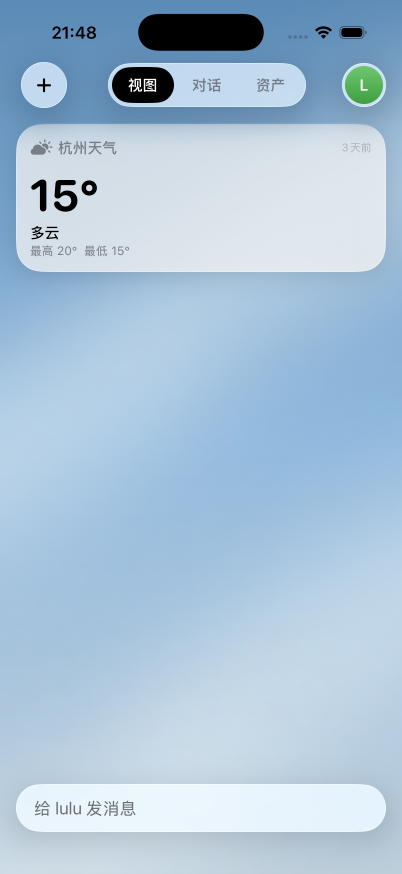
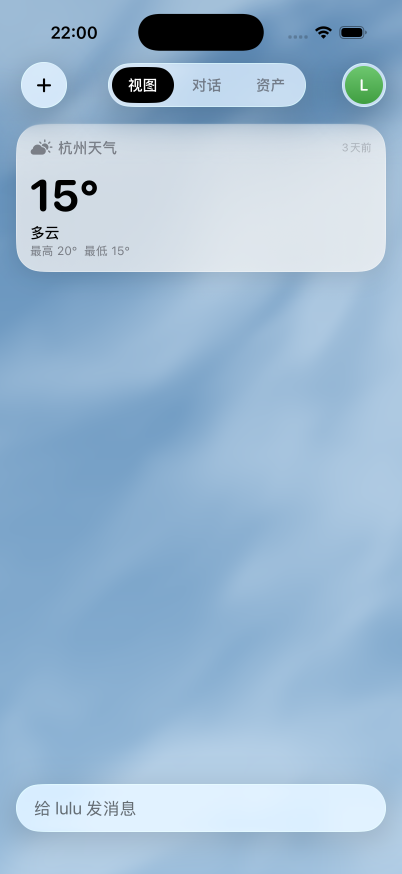
fix(ios): render soft irregular cloud shadows

diff --git a/client/ios/PiStack/Components/Wallpaper.swift b/client/ios/PiStack/Components/Wallpaper.swift
@@ -110,39 +110,22 @@ private struct CloudSky: View {
     let cover: Double
     @Environment(\.colorScheme) private var scheme
 
-    private func color(_ hex: UInt32) -> Color {
-        Color(red: Double(hex >> 16 & 255) / 255, green: Double(hex >> 8 & 255) / 255, blue: Double(hex & 255) / 255)
+    private var moodValue: Float {
+        switch mood {
+        case .day: 0
+        case .dusk: 1
+        case .rain: 2
+        case .night: 3
+        }
     }
 
     var body: some View {
         GeometryReader { proxy in
-            let night = mood == .night
-            let rain = mood == .rain
-            let base: [UInt32] = night ? [0x172941, 0x28496C, 0x446887] :
-                rain ? [0x71899F, 0x9CB2C5, 0xC2CFDA] :
-                mood == .dusk ? [0x526D8A, 0xA798AF, 0xC2B6BF] : [0x5D8DB9, 0x91B9DD, 0xBDCEDB]
-            ZStack {
-                LinearGradient(colors: base.map(color), startPoint: .top, endPoint: .bottom)
-                ForEach(0..<4) { i in
-                    Ellipse()
-                        .fill(color(night ? 0x759BBA : 0xE2EDF3).opacity(night ? 0.22 : 0.48 + min(100, max(0, cover)) / 700))
-                        .frame(width: proxy.size.width * [1.5, 1.1, 1.4, 1.2][i], height: proxy.size.height * 0.18)
-                        .rotationEffect(.degrees(-32))
-                        .position(x: proxy.size.width * [0.9, 0.05, 0.9, 0.15][i],
-                                  y: proxy.size.height * [0.23, 0.5, 0.72, 1.0][i])
-                        .blur(radius: proxy.size.width * 0.13)
-                }
-                if mood == .dusk {
-                    Ellipse().fill(color(0xFFAB9A).opacity(0.7))
-                        .frame(width: proxy.size.width * 1.5, height: proxy.size.height * 0.15)
-                        .rotationEffect(.degrees(-25))
-                        .position(x: proxy.size.width * 0.58, y: proxy.size.height * 0.61)
-                        .blur(radius: 38)
-                }
-                if scheme == .dark { Color.black.opacity(night ? 0.12 : 0.55) }
-                if scheme == .light && night { Color.white.opacity(0.55) }
-            }
-            .clipped()
+            Rectangle().fill(.white)
+                .colorEffect(ShaderLibrary.skyClouds(
+                    .float2(proxy.size), .float(moodValue),
+                    .float(Float(min(100, max(0, cover)))), .float(scheme == .dark ? 1 : 0)
+                ))
         }
     }
 }

diff --git a/docs/ios-sky.md b/docs/ios-sky.md
@@ -1,6 +1,6 @@
 # iOS weather sky
 
-The default sky theme renders broad blurred light fields rather than a screenshot asset. The supplied day, dusk, rain and night mockups include device chrome and widgets; those must not become wallpaper pixels. Other manually selected themes remain available.
+The default sky theme renders a static Metal cloud field rather than a screenshot asset. The supplied day, dusk, rain and night mockups include device chrome and widgets; those must not become wallpaper pixels. Other manually selected themes remain available.
 
 Set a city in Settings → Sky weather. No GPS permission is requested. The entered city goes directly to Open-Meteo geocoding; its first match is shown with its resolved name and timezone. Clear it to stop weather requests. This is a manually selected location, not automatic device tracking. Ambiguous city names require checking the resolved result.
 
@@ -16,10 +16,12 @@ Provider: [Open-Meteo](https://open-meteo.com/), [API contract](https://open-met
 - Existing Swift package suite: five passing tests.
 - Temporary executable assertions: freshness boundaries/future timestamps, day/dusk/night, rain/snow/thunderstorm, missing solar times, Codable round trip and empty city; all pass.
 - Actual Home captured for day/light, dusk/light, rain/light and night/dark using Debug-only `-lulu.sky.preview <day|dusk|rain|night>` launch arguments. This overrides appearance only, not weather acquisition, and is absent in Release. Real chat history inspected in day/light without sending messages. Private chat screenshots are deliberately excluded from Git.
-- First pass had nearly uniform cloud illumination. Second pass reduces seven overlapping fields to four with separated positions, preserving broad defocus. Large colored weather-card decoration removed.
-- Visual rubric: compare only the screen interior, excluding generated device frame; inspect base hue, cloud scale/softness, warm-band placement, glass separation, text/link contrast and absence of literal weather decoration. Day/dusk/rain match the direction; night remains smoother than the mockup, and opposite system appearance intentionally changes luminance. No numerical similarity measurement or 90% acceptance claim is made.
+- The original blurred ellipses were rejected as too uniform. Replaced them with three-scale continuous noise and domain warping: irregular transparent cloud shadows with broad diagonal flow, without a continuous animation loop. The user approved the first shader iteration shown in the attached day/night comparison; subsequent unapproved shape/blur tuning was reverted. Large colored weather-card decoration removed.
+- Visual rubric: compare only the screen interior, excluding generated device frame; inspect base hue, cloud scale/softness, warm-band placement, glass separation, text/link contrast and absence of literal weather decoration. The user accepted the revised day/night appearance on 2026-11-15. This is visual approval of that shown iteration, not a measured 90% similarity score. Opposite system appearance intentionally changes luminance.
 - Live geocoding returns Hangzhou. Forecast endpoint initially timed out; retry succeeded with Asia/Shanghai, WMO code 2, cloud cover 60%, is_day 0 and absolute sunrise/sunset timestamps. Launching the app with the city set to Hangzhou also populated `lulu.sky.v1.hangzhou` with the same code/cloud cover, resolved city, timezone and fresh observation timestamp; the Home displayed its night treatment. Controlled appearance captures do not prove networking or weather correctness.
 
-Remaining acceptance: offline cache expiry/relaunch, ambiguous location resolution, cross-timezone sunrise/sunset, all four skies with real chat in both appearances and accessibility contrast measurement. Until completed, this is a draft PR, not a claim that the requested visual acceptance is complete.
+Remaining acceptance: offline cache expiry/relaunch, ambiguous location resolution, cross-timezone sunrise/sunset, all four skies with real chat in both appearances and accessibility contrast measurement. These remain separate functional/accessibility verification gaps; the shown day/night cloud appearance has user approval. The PR remains a draft.
 
-Appearance evidence: [day](images/ios-sky/day-light.png), [dusk](images/ios-sky/dusk-light.png), [rain](images/ios-sky/rain-light.png), [night](images/ios-sky/night-dark.png).
+Approved shader appearance: [day](images/ios-sky/day-light.png), [night](images/ios-sky/night-dark.png). Dusk/rain and live-weather screenshots below are from the earlier ellipse renderer and are retained only as historical evidence.
+
+Historical appearance evidence: [day](images/ios-sky/day-light.png), [dusk](images/ios-sky/dusk-light.png), [rain](images/ios-sky/rain-light.png), [night](images/ios-sky/night-dark.png).
